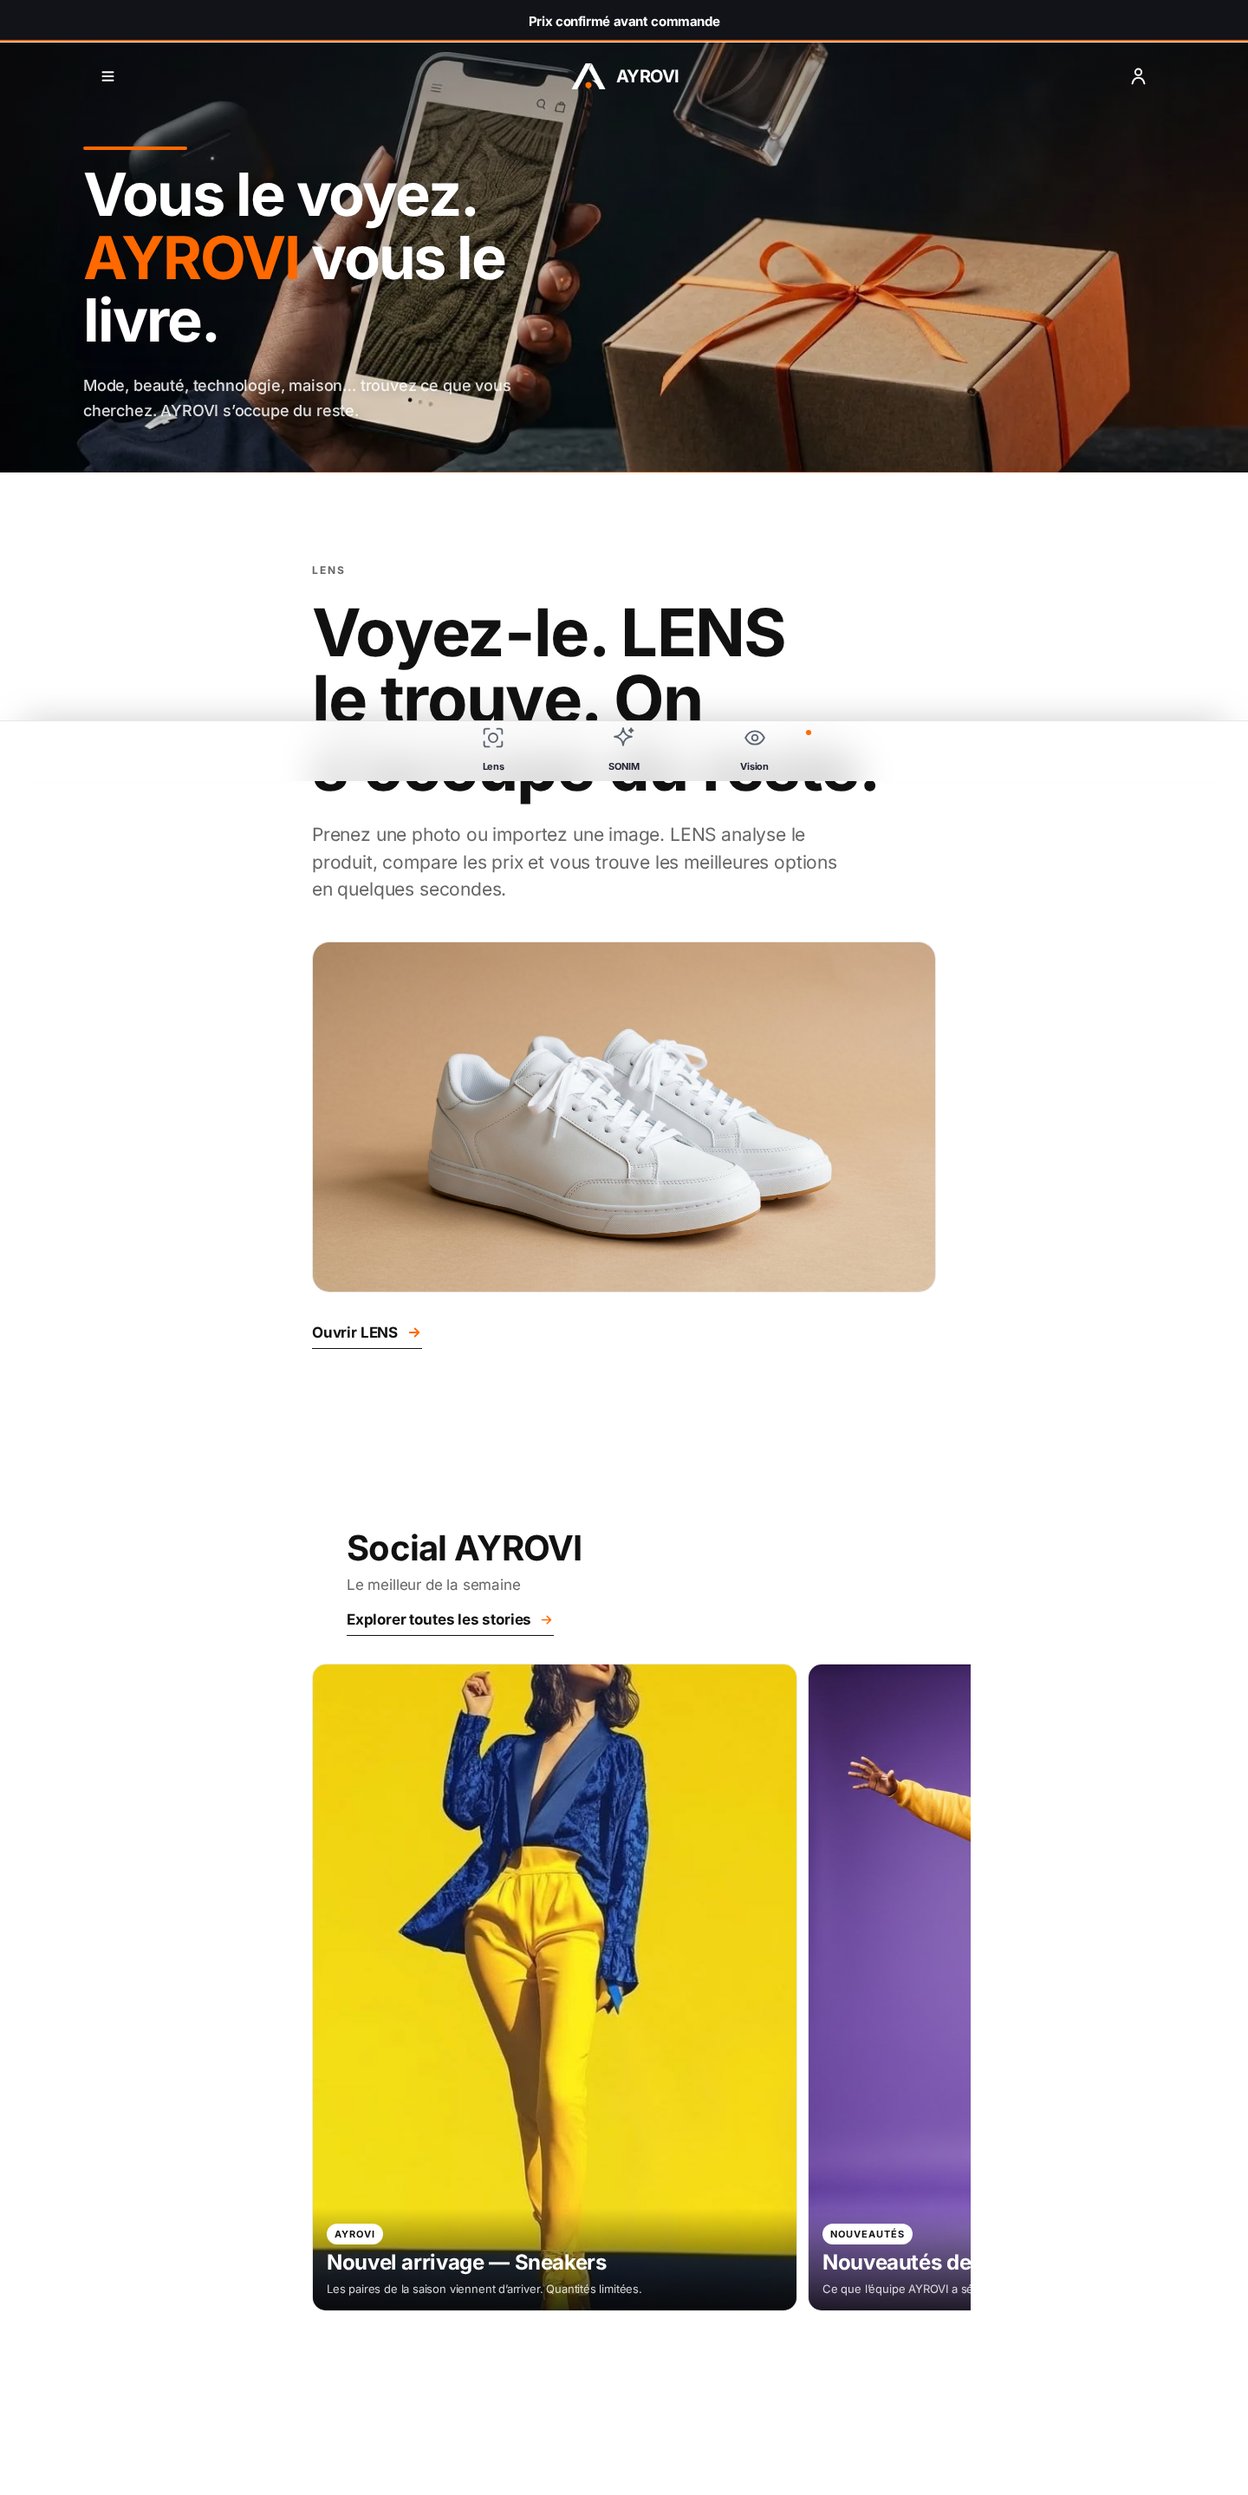
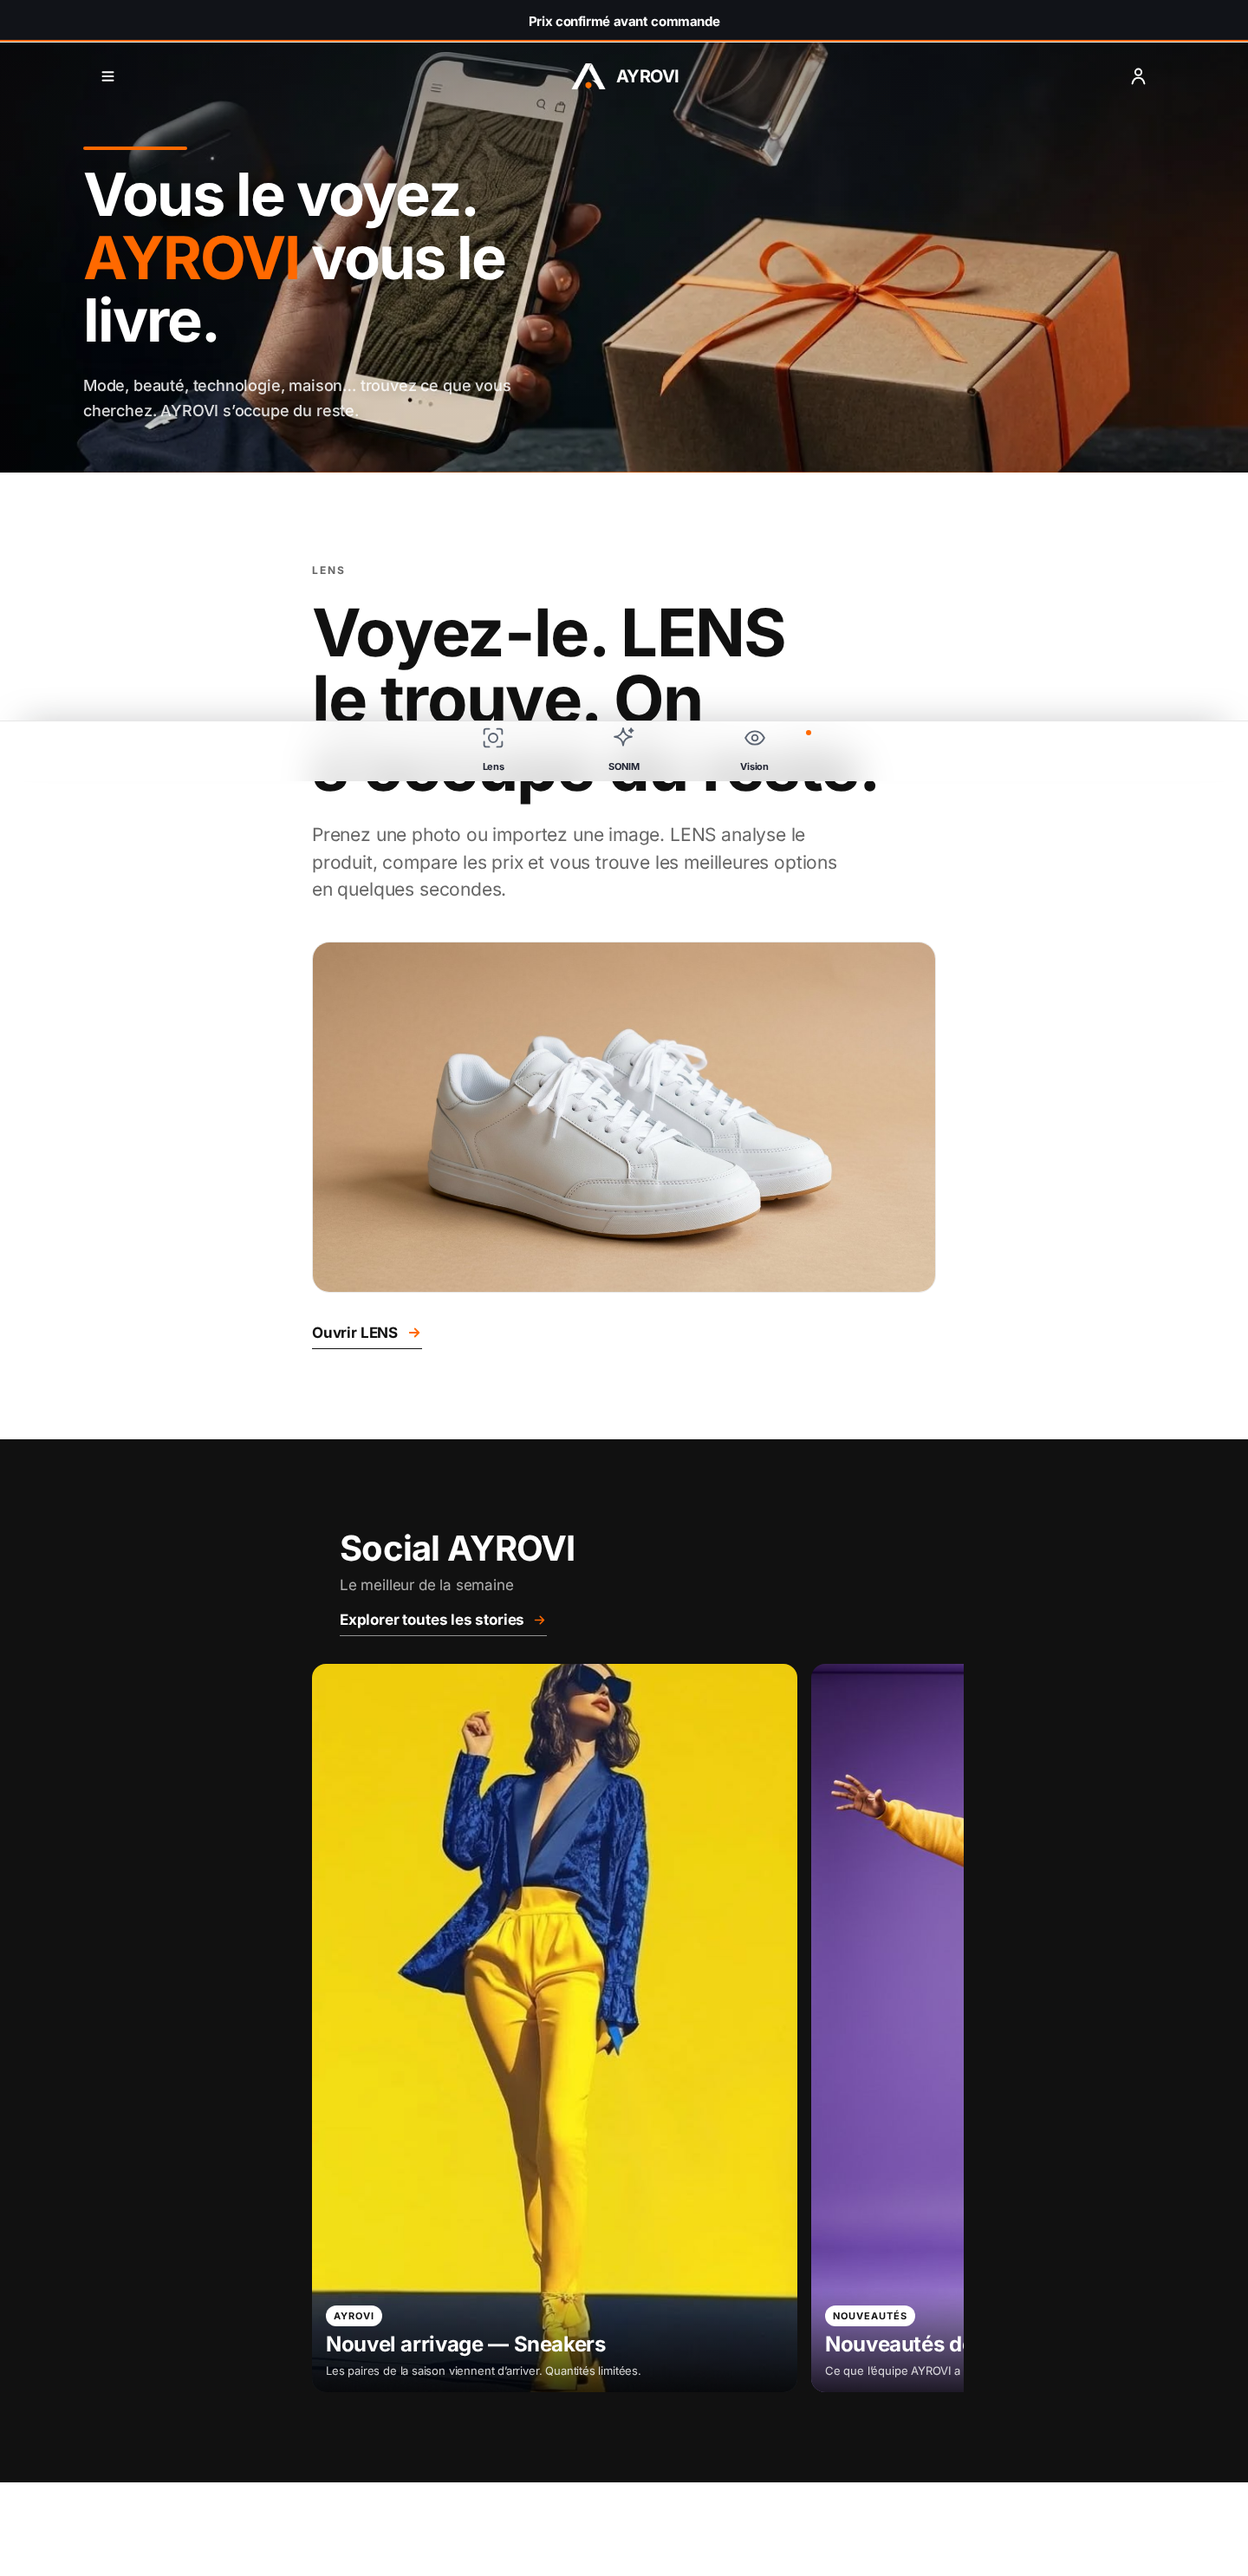
feat(stories): reproduce the supplied block in full — it is a dark panel
I had analysed only the card row of the reference capture and missed the block
around it. Reading the whole image pixel by pixel changes the result:

1. The block is DARK. Measured luminance on the model: pure black (0,0,0)
   from y=10% to y=90% of the capture — before the title, around the card, and
   after it. The title, subtitle and link are white on that black. The section
   background is now var(--ayrovi-text-primary) (#111111) with white text; the
   subtitle uses translucent white because #666666 is unreadable on black.

2. The card is TALLER. Measured 557x816 px on the model = a ratio of 0.683,
   i.e. 2/3, not the 3/4 I had. A card is now 302x453 on a 390 px screen
   (was 304x406).

3. The spacing is the model's: card 77.4% of the screen (was 78%), left inset
   3.33%, gap 2.22%, next card visible 17.1%. Measured on the running page:
   card 302 px = 77.4%, next card overflowing 66 px = 16.9% — the model shows
   77.36% and 17.08%.

Charter: still monochrome, orange only on the arrow (1 occurrence in the CSS).
Measured coverage 1.97% (Stories), 0.004-0.016% (LENS), 0.61-1.25% (home) —
max 1.97% against the 3% budget.

Two test locks: one on the dark-panel charter (no hex literals, black
background from the token, white text, translucent-white secondary, single
orange on the arrow, black scrim), one on the measured geometry (77.4vw card,
3.33vw inset, 2.22vw gap, 2/3 ratio, mandatory snap, hidden scrollbar, overlay
pinned to the bottom).
[…]

diff --git a/client/src/index.css b/client/src/index.css
@@ -1250,15 +1250,25 @@ html[data-ayrovi-icon-style='solid'] .ayrovi-icon {
    Respiration verticale large, identique au bloc LENS, entre les sections.
    Monochrome : seule la flèche du lien porte l'orange.
    ============================================================ */
+/* ─────────────────────────────────────────────────────────────────────────────
+   STORIES — LE BLOC COMPLET, RELEVÉ AU PIXEL SUR LE MODÈLE FOURNI
+   Le modèle est un bloc ENTIER posé sur un fond NOIR : le fond noir commence
+   avant le titre et se termine après la carte. Tout le texte est blanc.
+   Géométrie mesurée (capture 720 px de large) :
+     · carte  557 px  = 77,4 % de l'écran
+     · marge gauche 24 px = 3,33 %   · interstice 16 px = 2,22 %
+     · carte suivante visible 123 px = 17,1 %
+     · rapport largeur/hauteur 0,683  →  retenu : 2/3 (0,667)
+   Ces valeurs sont des proportions : elles tiennent à toutes les largeurs.
+   ───────────────────────────────────────────────────────────────────────────── */
 .stories-showcase {
   --stories-showcase-gap: clamp(64px, 15vw, 104px);
-  --stories-showcase-gutter: clamp(16px, 4.2vw, 40px);
-  /* Largeur d'une carte — 78 % de l'écran, mesure relevée sur le modèle fourni.
-     La suivante dépasse donc du bord droit et invite au défilement. Plafond à
-     560 px pour que les cartes restent alignées sur la colonne de lecture. */
-  --stories-showcase-card: min(78vw, 560px);
+  --stories-showcase-gutter: clamp(13px, 3.33vw, 32px);
+  --stories-showcase-interstice: clamp(9px, 2.22vw, 16px);
+  --stories-showcase-card: min(77.4vw, 560px);
 
-  background: var(--ayrovi-bg-main);
+  background: var(--ayrovi-text-primary);
+  color: var(--ayrovi-bg-main);
   padding-block: var(--stories-showcase-gap);
 }
 
@@ -1274,16 +1284,16 @@ html[data-ayrovi-icon-style='solid'] .ayrovi-icon {
   line-height: 1.1;
   letter-spacing: -0.018em;
   font-weight: 800;
-  color: var(--ayrovi-text-primary);
+  color: var(--ayrovi-bg-main);
 }
 
 .stories-showcase__subtitle {
   margin: 8px 0 0;
   font-size: clamp(14px, 3.4vw, 17px);
-  color: var(--ayrovi-text-secondary);
+  color: rgba(255, 255, 255, 0.66);
 }
 
-/* Lien « Explorer toutes les stories › » — juste sous le sous-titre. */
+/* Lien « Explorez toutes les stories › » — juste sous le sous-titre. */
 .stories-showcase__cta {
   margin-top: 14px;
   display: inline-flex;
@@ -1291,17 +1301,17 @@ html[data-ayrovi-icon-style='solid'] .ayrovi-icon {
   gap: 9px;
   padding: 0 0 5px;
   border: 0;
-  border-bottom: 1px solid var(--ayrovi-text-primary);
+  border-bottom: 1px solid rgba(255, 255, 255, 0.55);
   background: none;
   cursor: pointer;
   font-size: clamp(15px, 3.6vw, 17px);
   font-weight: 700;
-  color: var(--ayrovi-text-primary);
+  color: var(--ayrovi-bg-main);
 }
 
 .stories-showcase__cta > svg { color: var(--ayrovi-color-brand-orange); transition: transform 0.18s ease; }
 .stories-showcase__cta:hover > svg { transform: translateX(3px); }
-.stories-showcase__cta:focus-visible { outline: 2px solid var(--ayrovi-text-primary); outline-offset: 4px; }
+.stories-showcase__cta:focus-visible { outline: 2px solid var(--ayrovi-bg-main); outline-offset: 4px; }
 
 /* Rail horizontal aimanté ; la barre de défilement est masquée. */
 .stories-showcase__rail {
@@ -1310,7 +1320,7 @@ html[data-ayrovi-icon-style='solid'] .ayrovi-icon {
   margin: clamp(22px, 5.5vw, 32px) auto 0;
   padding: 0 var(--stories-showcase-gutter);
   display: flex;
-  gap: 12px;
+  gap: var(--stories-showcase-interstice);
   overflow-x: auto;
   scroll-snap-type: x mandatory;
   scroll-padding-inline-start: var(--stories-showcase-gutter);
@@ -1330,13 +1340,13 @@ html[data-ayrovi-icon-style='solid'] .ayrovi-icon {
   position: relative;
   display: block;
   width: 100%;
-  aspect-ratio: 3 / 4;
+  aspect-ratio: 2 / 3;
   margin: 0;
   padding: 0;
-  border: 1px solid var(--ayrovi-border-soft);
+  border: 0;
   border-radius: 16px;
   overflow: hidden;
-  background: var(--ayrovi-bg-surface);
+  background: rgba(255, 255, 255, 0.06);
   cursor: pointer;
   text-align: start;
 }

diff --git a/tests/stories-showcase.test.ts b/tests/stories-showcase.test.ts
@@ -161,19 +161,42 @@ describe('Stories showcase — settings come from the dashboard', () => {
     expect(indexCss).toMatch(/\.stories-showcase\s*\{[^}]*padding-block:\s*var\(--stories-showcase-gap\)/);
   });
 
-  test('Zalando charter: monochrome section, orange limited to the action arrow', () => {
+  test('Zalando charter: the whole block is a monochrome dark panel, orange on the arrow only', () => {
     const block = /\.stories-showcase \{[\s\S]*?@media \(prefers-reduced-motion/.exec(indexCss)?.[0] ?? '';
-    // aucun littéral hexadécimal dans la section
+
+    // aucun littéral hexadécimal : tout passe par les jetons ou par du blanc/noir translucide
     expect(block).not.toMatch(/#[0-9a-fA-F]{3,8}\b/);
-    expect(block).toMatch(/var\(--ayrovi-bg-main\)/);
-    expect(block).toMatch(/var\(--ayrovi-text-primary\)/);
-    expect(block).toMatch(/var\(--ayrovi-text-secondary\)/);
-    expect(block).toMatch(/var\(--ayrovi-bg-surface\)/);
+
+    // Le modèle fourni est un bloc ENTIER posé sur un fond NOIR, titre et texte en blanc.
+    expect(block).toMatch(/\.stories-showcase \{[\s\S]*?background:\s*var\(--ayrovi-text-primary\)/);
+    expect(block).toMatch(/\.stories-showcase__title \{[\s\S]*?color:\s*var\(--ayrovi-bg-main\)/);
+    expect(block).toMatch(/\.stories-showcase__cta \{[\s\S]*?color:\s*var\(--ayrovi-bg-main\)/);
+    // Sur fond noir, le texte secondaire est du blanc translucide — jamais #666, illisible.
+    expect(block).toMatch(/\.stories-showcase__subtitle \{[\s\S]*?rgba\(255,\s*255,\s*255/);
+    expect(block).not.toMatch(/--ayrovi-text-secondary/);
+
     // une seule occurrence d'orange : la flèche du lien « Explorer toutes les stories »
     expect(block.match(/--ayrovi-color-brand-orange/g) ?? []).toHaveLength(1);
     expect(block).toMatch(/\.stories-showcase__cta > svg \{[^}]*--ayrovi-color-brand-orange/);
     // le voile sous le texte est noir (monochrome), jamais orangé
     expect(block).not.toMatch(/rgba\(\s*2[0-9]{2}\s*,\s*1[0-9]{2}/);
+  });
+
+  test('the card geometry follows the reference model, measured pixel by pixel', () => {
+    const block = /\.stories-showcase \{[\s\S]*?@media \(prefers-reduced-motion/.exec(indexCss)?.[0] ?? '';
+    // largeur 77,4 % de l'écran · marge 3,33 % · interstice 2,22 % · rapport 2/3
+    expect(block).toMatch(/--stories-showcase-card:\s*min\(77\.4vw,\s*560px\)/);
+    expect(block).toMatch(/--stories-showcase-gutter:\s*clamp\(13px,\s*3\.33vw,\s*32px\)/);
+    expect(block).toMatch(/--stories-showcase-interstice:\s*clamp\(9px,\s*2\.22vw,\s*16px\)/);
+    expect(block).toMatch(/aspect-ratio:\s*2 \/ 3/);
+    // rail aimanté, barre de défilement masquée
+    expect(block).toMatch(/scroll-snap-type:\s*x mandatory/);
+    expect(block).toMatch(/::-webkit-scrollbar \{ display: none; \}/);
+    // le bloc se suffit à lui-même : en-tête + texte posé en bas de l'image
+    expect(block).toMatch(/\.stories-showcase__overlay \{[\s\S]*?bottom:\s*0;/);
+    expect(block).toMatch(/\.stories-showcase__badge/);
+    expect(block).toMatch(/\.stories-showcase__cardtitle/);
+    expect(block).toMatch(/\.stories-showcase__carddesc/);
   });
 
   test('opening a card opens the story viewer, not a new page', () => {

diff --git a/CHANGELOG.md b/CHANGELOG.md
@@ -49,6 +49,13 @@ All notable AYROVI changes are recorded in this file.
 ### Added
 - **The block position is now controlled from the Dashboard**: Admin → Contenu → Social → onglet Story → « Bloc d'accueil » → champ **Position** (`Sous le bloc LENS` · `Au-dessus du bloc LENS`). Flipping it takes effect immediately, with no code change. Defaults to « sous le bloc LENS ».
 
+### Changed
+- **The Stories block is now reproduced in full, measured pixel by pixel on the supplied model — and it is a DARK block.** Reading the whole capture instead of only its card row changed three things that were wrong:
+  - The model is a **complete panel on a black background**, with white text. The black starts before the title and ends after the card; it is not a white section with a row of cards. The section background is now `var(--ayrovi-text-primary)` (#111111) and the title, the link and the body are white (the subtitle in translucent white, since #666666 is unreadable on black).
+  - The card is **taller** than I had it: measured 557 × 816 px on the model, a width/height ratio of 0.683 — the `2/3` ratio, not `3/4`. A card now measures 302 × 453 px on a 390 px screen, against 304 × 406 before.
+  - The spacing follows the model: card **77.4 %** of the screen, left inset **3.33 %**, gap **2.22 %**, next card visible **17.1 %**. Measured on the running page: card 302 px = 77.4 %, next card overflowing 66 px = 16.9 %.
+  Measured orange coverage after the change: 1.97 % (Stories) — the pixels come from the story photos, the CSS still contributes only the arrow.
+
 ### Added
 - **Five demo stories** published across the five channels (Ayrovi Official / Nouveautés / Style / Actus / Promos) so the container is visible immediately. They are ordinary rows in the `stories` table — edit or delete them freely from Stories Studio.
 
